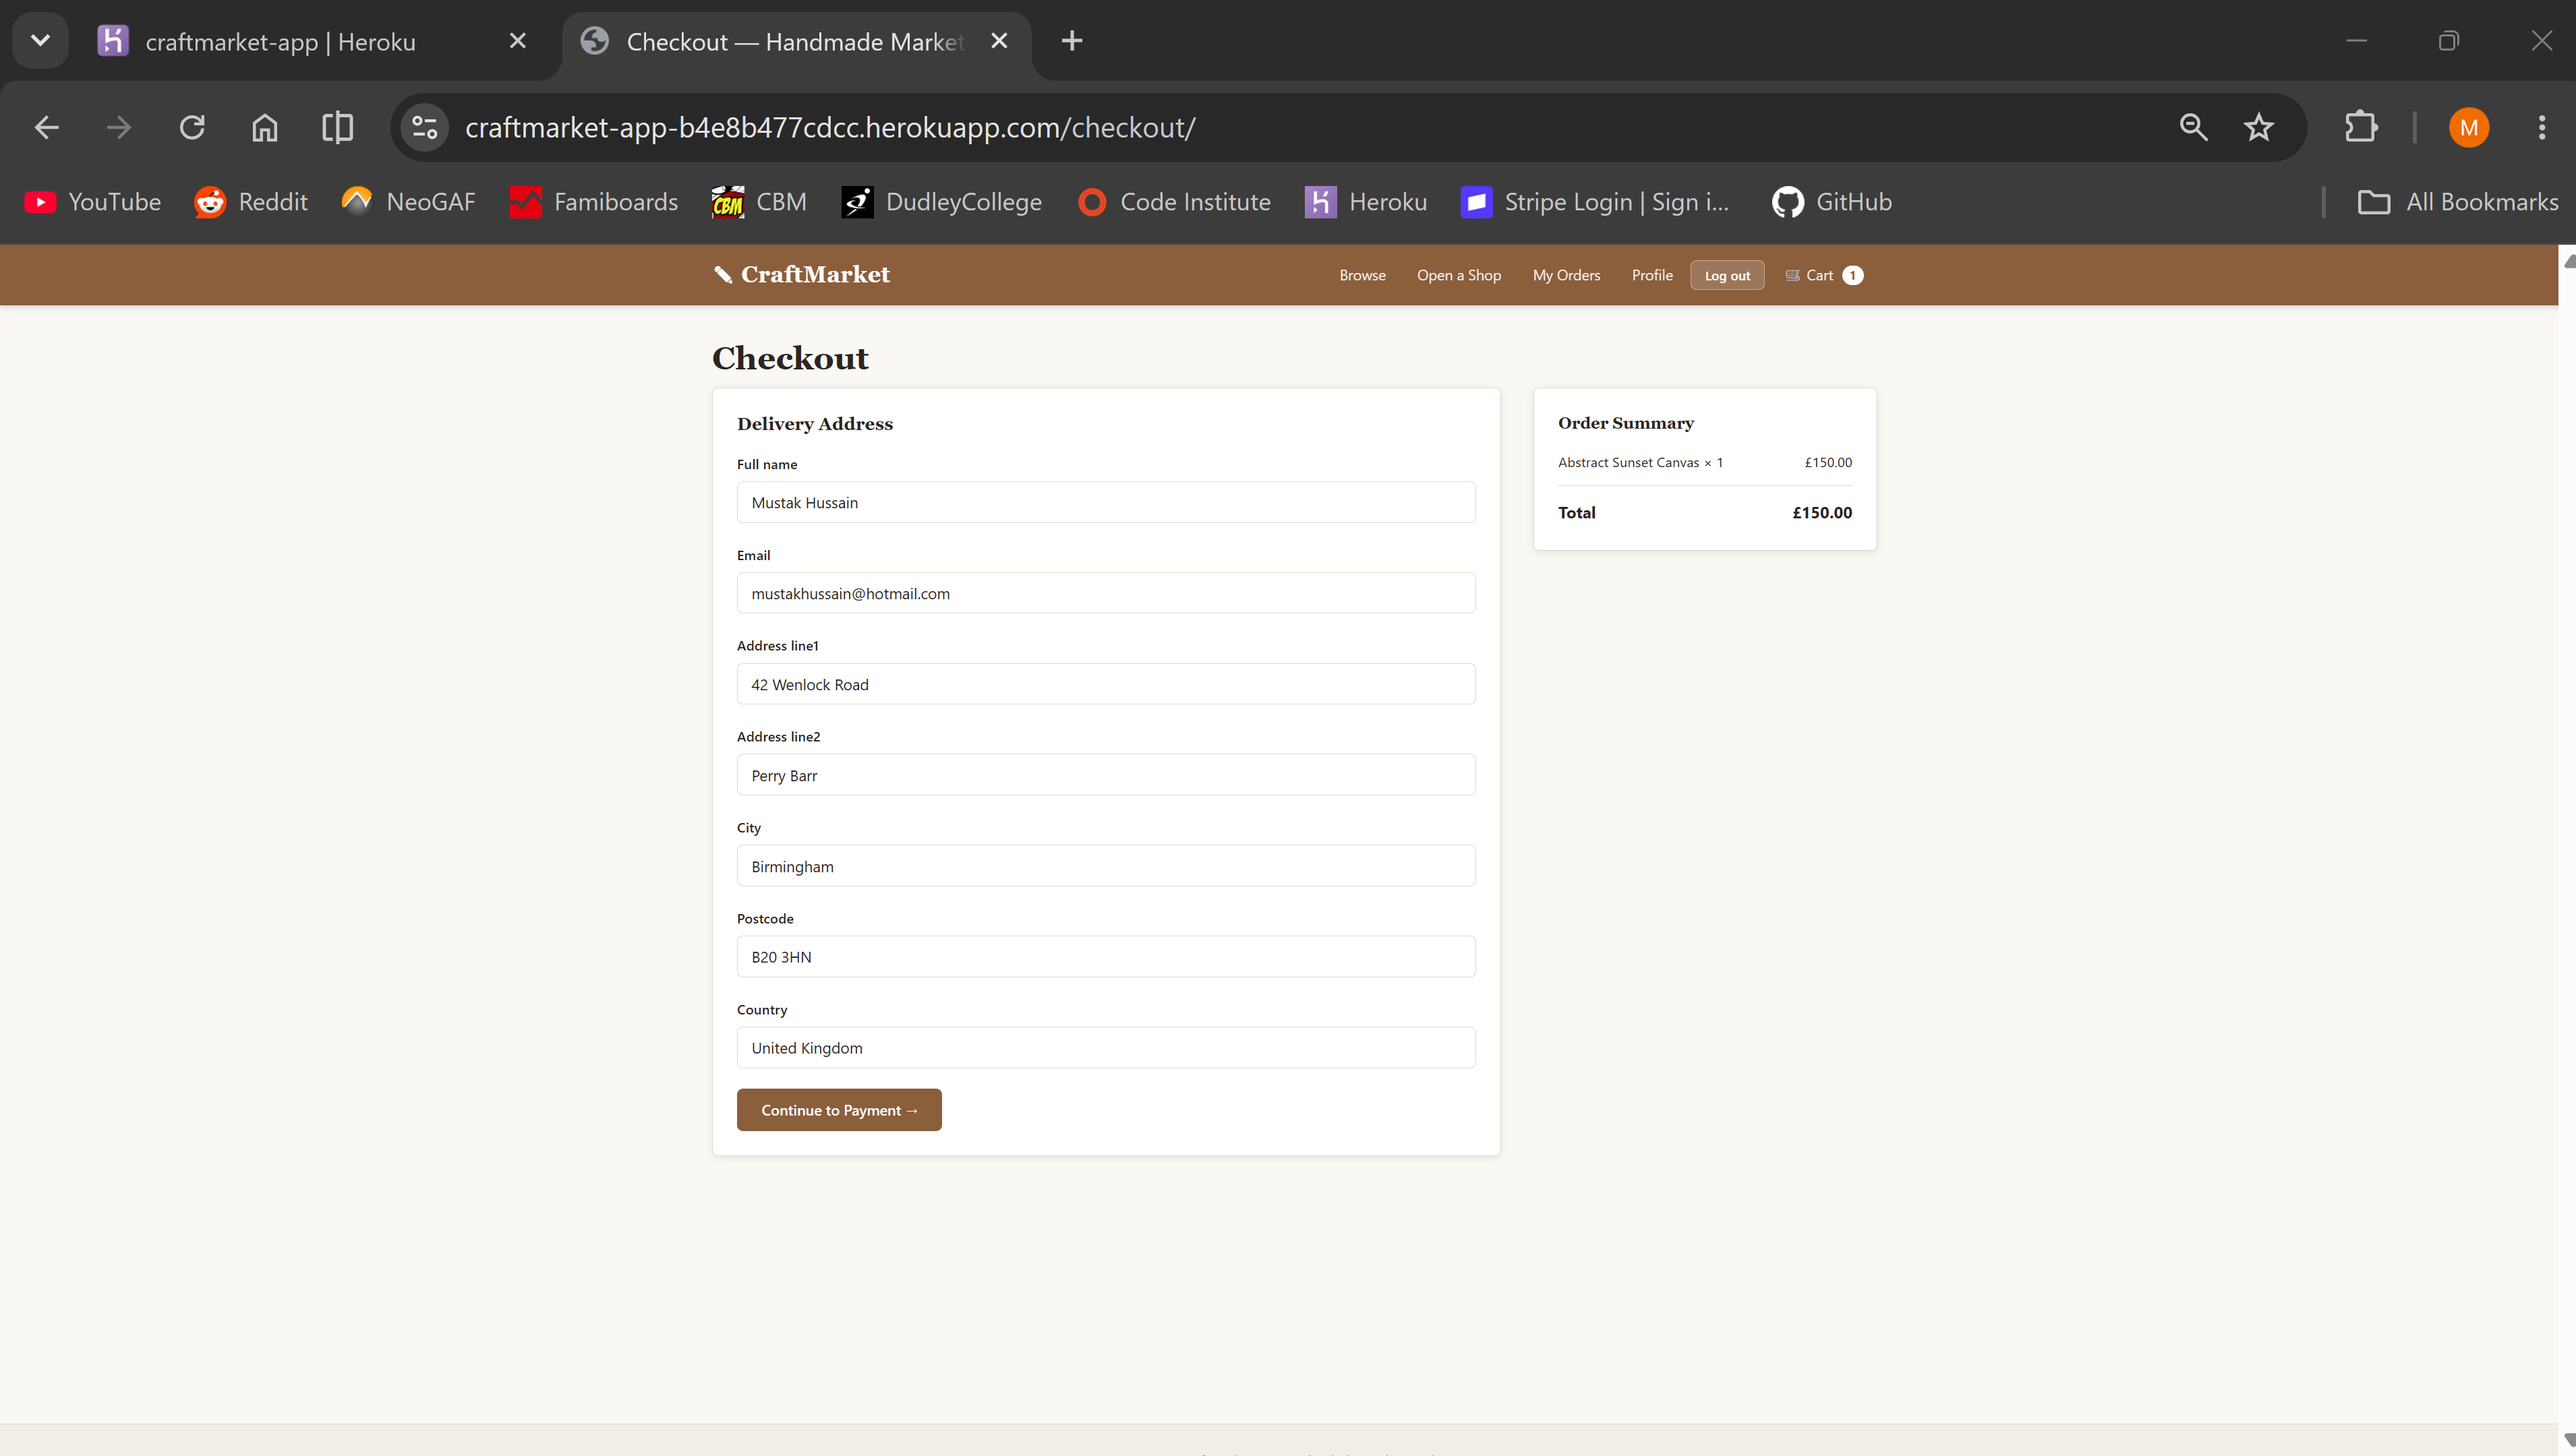
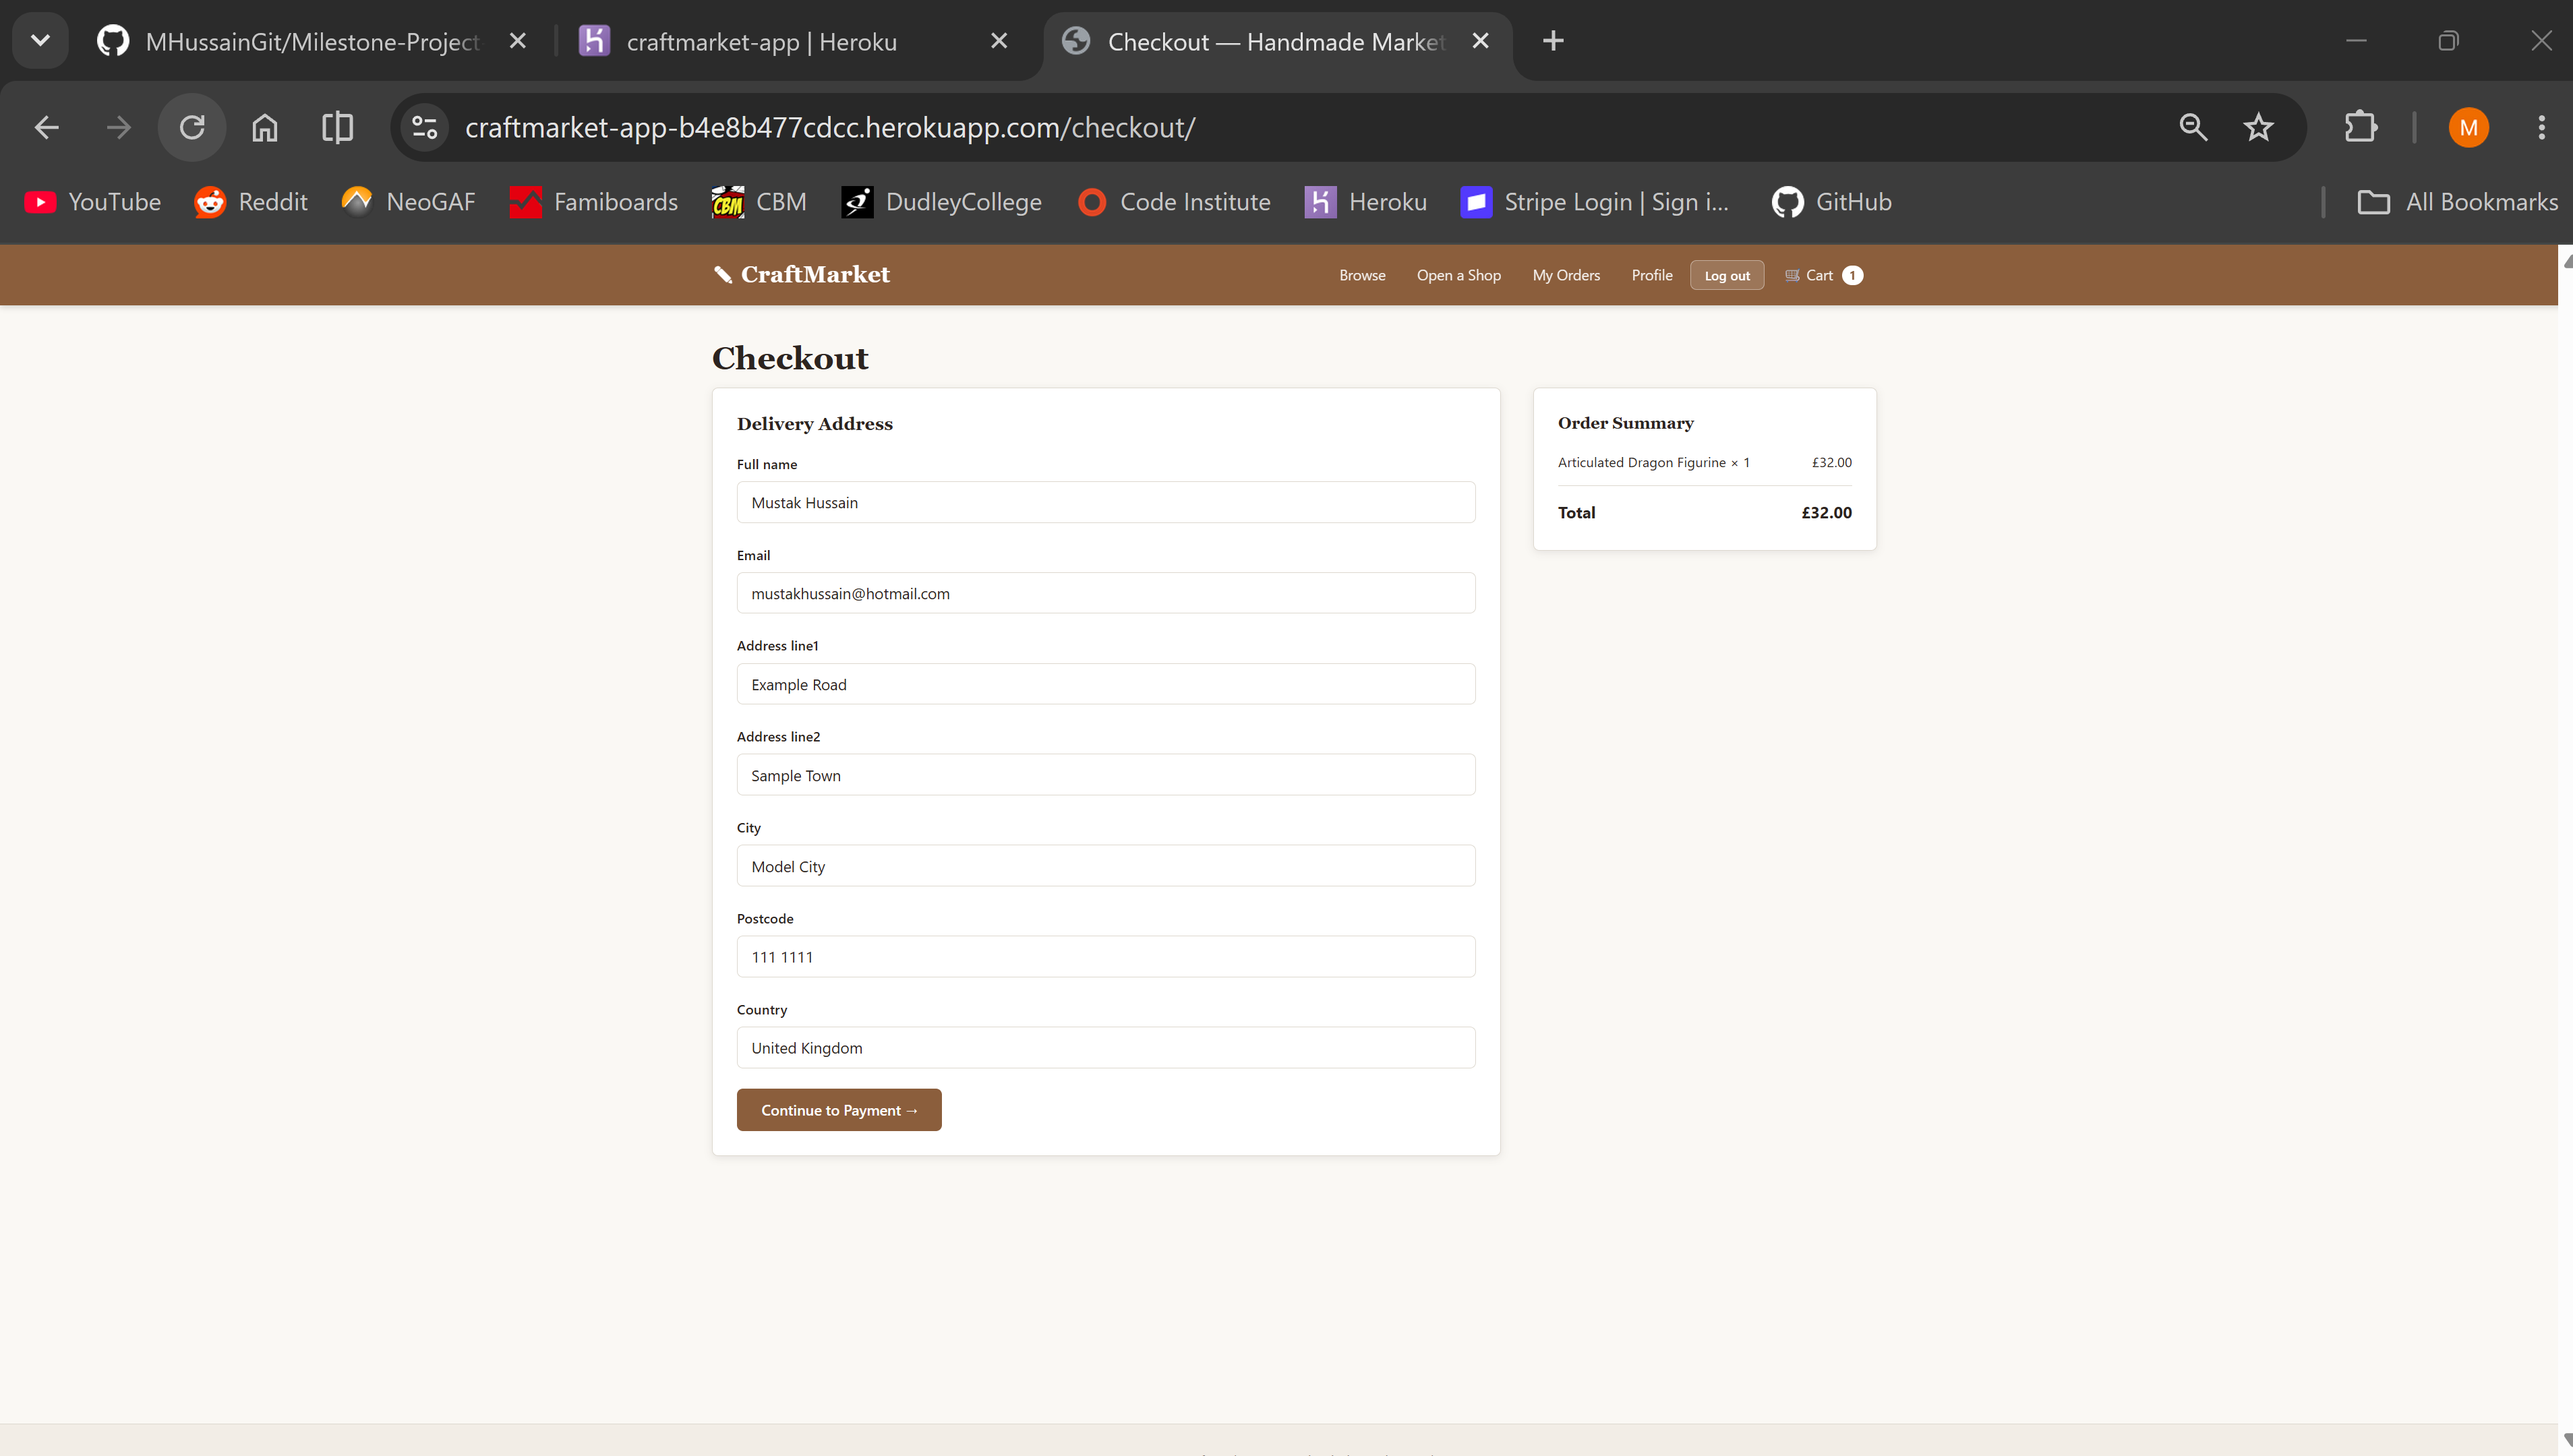
Stack shop detail header on mobile

diff --git a/static/css/styles.css b/static/css/styles.css
@@ -339,6 +339,15 @@ ul, ol { padding-left: 1.5rem; margin-bottom: 1rem; }
   align-items: start;
 }
 
+/* ── Shop detail layout ───────────────────────────────────────────────────── */
+.shop-detail-grid {
+  display: grid;
+  grid-template-columns: 200px 1fr;
+  gap: 2rem;
+  align-items: start;
+  margin-bottom: 2rem;
+}
+
 /* ── Table ────────────────────────────────────────────────────────────────── */
 .table-wrap { width: 100%; overflow-x: auto; -webkit-overflow-scrolling: touch; }
 
@@ -535,6 +544,10 @@ ul, ol { padding-left: 1.5rem; margin-bottom: 1rem; }
   /* Checkout: stack order summary below the form, full width */
   .checkout-grid { grid-template-columns: 1fr; gap: 1.5rem; }
   .checkout-grid .btn { width: 100%; }
+
+  /* Shop detail: stack the shop image above its info */
+  .shop-detail-grid { grid-template-columns: 1fr; gap: 1.5rem; }
+  .shop-detail-grid aside { max-width: 240px; margin: 0 auto; }
 
   /* Stacked-card layout: each row becomes a labelled card */
   .table-stacked thead {

diff --git a/store/templates/store/shop_detail.html b/store/templates/store/shop_detail.html
@@ -8,7 +8,7 @@
     <span aria-current="page">{{ shop.name }}</span>
   </nav>
 
-  <div style="display:grid;grid-template-columns:200px 1fr;gap:2rem;align-items:start;margin-bottom:2rem">
+  <div class="shop-detail-grid">
     <aside>
       {% if shop.image_url %}
         <img src="{{ shop.image_src }}" alt="{{ shop.name }}"
